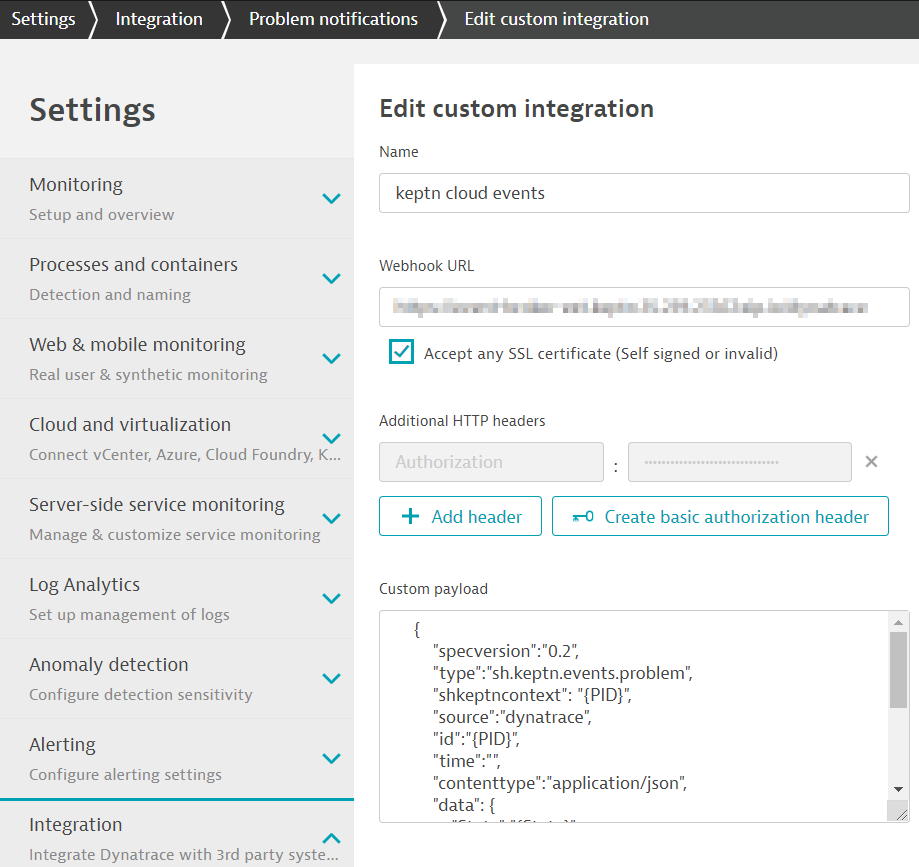
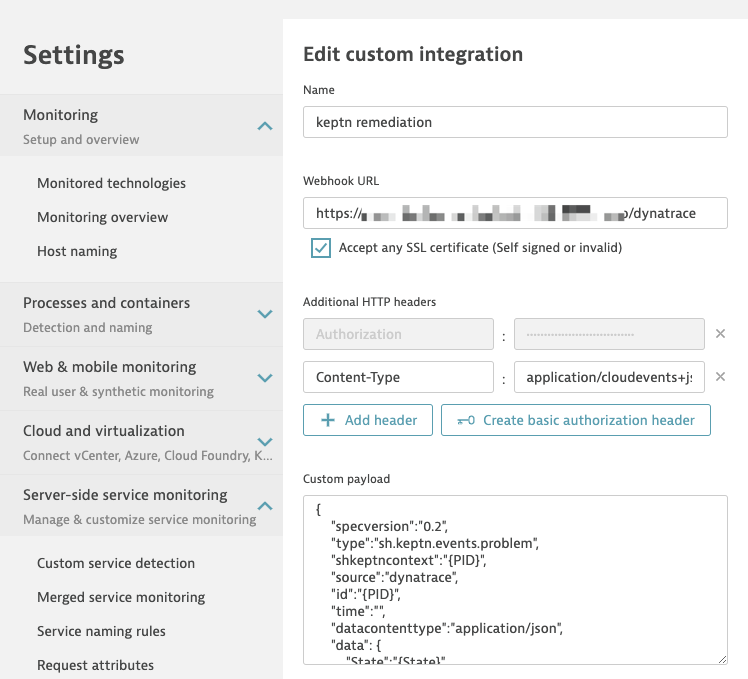
update docs for auto setup of dt notifications

diff --git a/content/docs/develop/usecases/runbook-automation-and-self-healing/index.md b/content/docs/develop/usecases/runbook-automation-and-self-healing/index.md
@@ -111,59 +111,20 @@ A ServiceNow *Update Set* is provided to run this use case. To install the *Upda
     link="./assets/service-now-keptn-workflow.png"
     caption="ServiceNow keptn workflow">}}
 
-## Setup a Dynatrace problem notification
+## (optional): Verify Dynatrace problem notification
 
-In order to create incidents in ServiceNow and to trigger workflows, an integration with Dynatrace has to be set up.
+During the [setup of Dynatrace](../../monitoring/dynatrace) a problem notification has already been set up for you. You can verify the correct setup by following the instructions: 
 
 1. Login to your Dynatrace tenant.
 1. Navigate to **Settings** > **Integration** > **Problem notifications**
 1. Click on **Set up notifications** and select **Custom integration**
-1. Choose a name for your integration, e.g., _keptn integration_
-1. In the webhook URL, paste the value of your keptn external eventbroker endpoint appended by `/dynatrace`, e.g., `https://event-broker-ext.keptn.XX.XXX.XXX.XX.xip.io/dynatrace`
-    - You can retrieve the URL by executing this command:
-
-    ```
-    echo https://$(kubectl get ksvc event-broker-ext -n keptn -ojsonpath={.status.domain})/dynatrace
-    ```
-    Please click the checkbox **Accept any SSL certificate**
-1. Additionally, an **Authorization Header** is needed to authorize against the keptn server. 
-    - Click on **Add header**
-    - The name for the header is: `Authorization`
-    - The value has to be set to the following: `Bearer KEPTN_API_TOKEN` where KEPTN_API_TOKEN has to be replaced with your actual API token that was received during installation. You can retrieve the values to be pasted by executing the following command:
-
-    ```
-    echo Bearer $(kubectl get secret keptn-api-token -n keptn -o=yaml | yq - r data.keptn-api-token | base64 --decode)
-    ```
-
-1. As the custom payload, a valid Cloud Event has to be defined:
-
-    ```json
-    {
-        "specversion":"0.2",
-        "type":"sh.keptn.events.problem",
-        "shkeptncontext":"{PID}",
-        "source":"dynatrace",
-        "id":"{PID}",
-        "time":"",
-        "datacontenttype":"application/json",
-        "data": {
-            "State":"{State}",
-            "ProblemID":"{ProblemID}",
-            "PID":"{PID}",
-            "ProblemTitle":"{ProblemTitle}",
-            "ProblemDetails":{ProblemDetailsJSON},
-            "ImpactedEntities":{ImpactedEntities},
-            "ImpactedEntity":"{ImpactedEntity}"
-        }
-    }
-    ```
-
-1. Click on **Send test notification** and then on  **Save**.
+1. Click on **keptn remediation**
+1. The problem notification should look similar to the one in this screen shot:
 
     {{< popup_image
     link="./assets/dynatrace-problem-notification-integration.png"
     caption="Dynatrace Problem Notification Integration"
-    width="500px">}}
+    width="600px">}}
 
 ## Adjust anomaly detection in Dynatrace
 

diff --git a/content/docs/develop/monitoring/dynatrace/index.md b/content/docs/develop/monitoring/dynatrace/index.md
@@ -69,6 +69,18 @@ kubectl delete pods --all --namespace=sockshop-production
 
 **Note 2:** If the nodes in your cluster run on *Container-Optimized OS (cos)*, make sure to [follow the instructions](https://www.dynatrace.com/support/help/cloud-platforms/google-cloud-platform/google-kubernetes-engine/deploy-oneagent-on-google-kubernetes-engine-clusters/#expand-134parameter-for-container-optimized-os-early-access) for setting up the Dynatrace OneAgent Operator. This means that after the initial setup with `deployDynatrace.sh`, which is a step below, the `cr.yml` has to be edited and applied again. In addition, all pods have to be restarted.
 
+### What was set up?
+
+In your Dynatrace tenant, when you navigate to "Settings -> Tags -> Automatically applied tags" you will find two entries:
+
+- environemnt
+- service
+
+This means that Dynatrace will automatially apply tags on your onboarded services.
+
+In addition, a Problem Notification has automatically been set up to inform your keptn installation of any problems with your services to allow auto-remediation. This will be describes in more detail in the [runbook automation and self-healing use case](../../usecases/runbook-automation-and-self-healing/). You can check the problem notification by navigating to "Settings -> Integration -> Problem notifications" and you will find a "keptn remediation" problem notification.
+
+
 ## See keptn events in Dynatrace
 
 The Dynatrace service will take care of pushing events of the keptn workflow to the artifacts that have been onboarded with keptn. For example, the deployment as well as custom infos like starting and finishing of tests will appear in the details screen of your services in your Dynatrace tenant.
